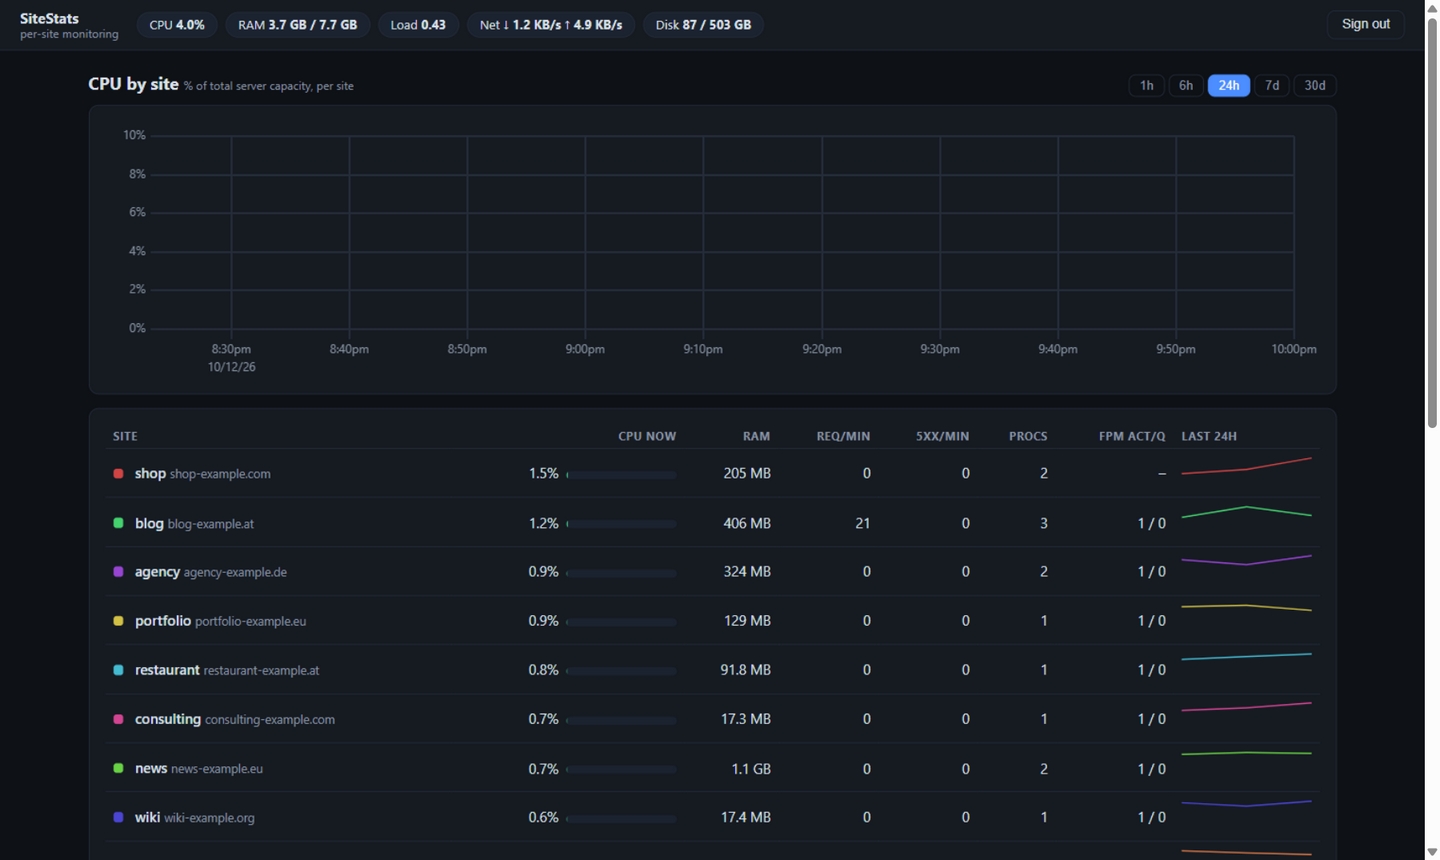
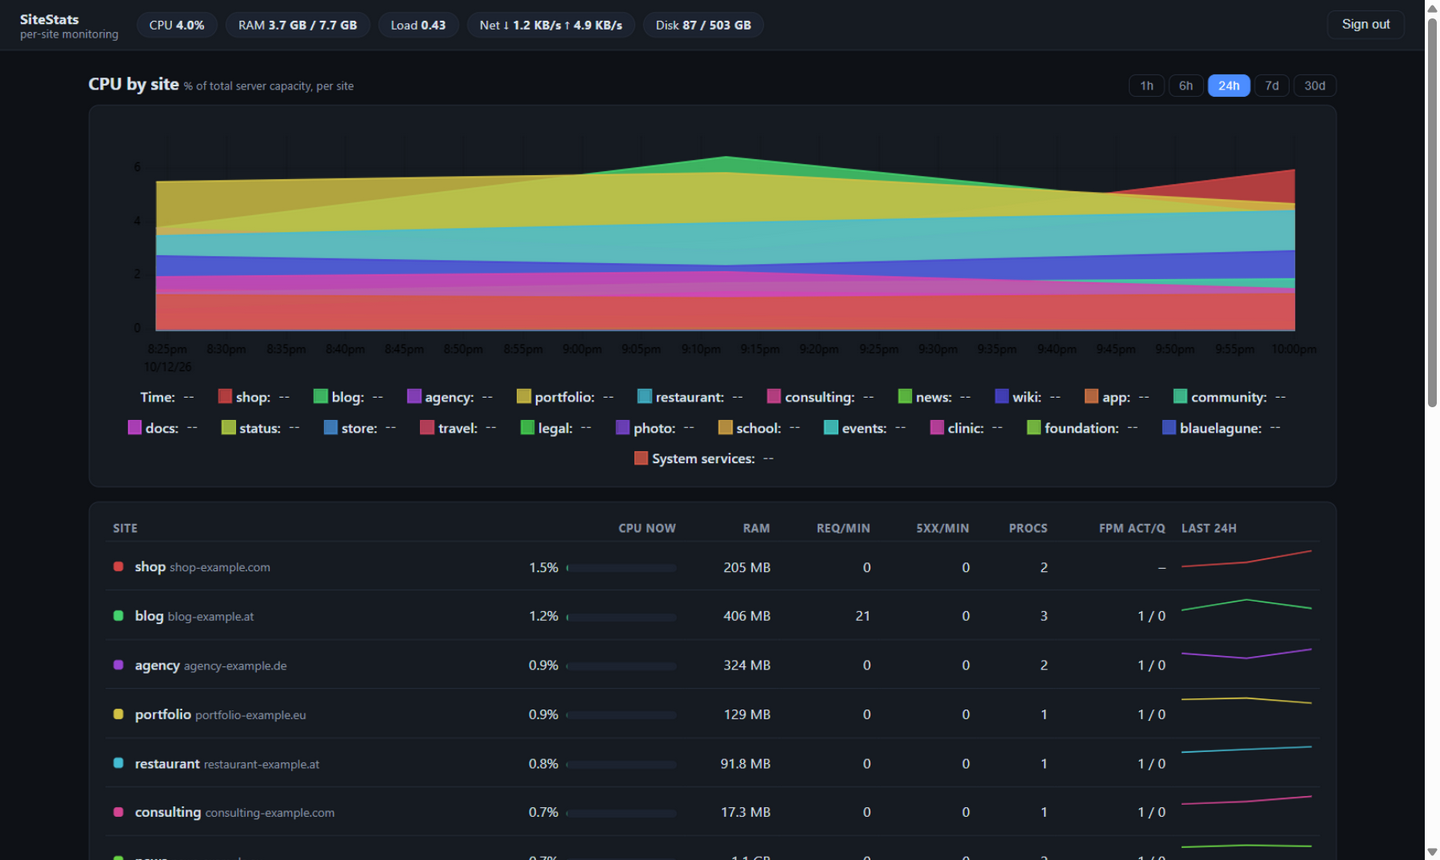
Fix stale stats: send Cache-Control no-store on API responses
Browsers heuristically cached the unauthenticated GET /api responses,
so the dashboard kept rendering an old frozen response instead of
live data. Also: restore lineChart (accidentally removed during the
overview chart rework), drop chart option overrides that broke series
rendering, and add colorFor rgb colors instead of space-syntax hsl.

diff --git a/internal/server/web/app.js b/internal/server/web/app.js
@@ -108,13 +108,7 @@ const chartDefaults = {
   width: 600,
   height: 240,
   ms: true,
-  cursor: { points: { size: 5 } },
   scales: { x: { time: true } },
-  axes: [
-    { stroke: "#8b96a5", grid: { stroke: "#262d3a" }, ticks: { stroke: "#262d3a" }, space: 70 },
-    { stroke: "#8b96a5", grid: { stroke: "#262d3a" }, ticks: { stroke: "#262d3a" }, size: 55 },
-  ],
-  legend: { show: false },
 };
 
 function chartWidth(el) {
@@ -163,18 +157,41 @@ function stackedChart(el, entries) {
   }
   const cols = aligned.cols;
   const opts = {
-    ...chartDefaults,
     width: chartWidth(el),
     height: 260,
-    scales: { x: { time: true }, y: { auto: false, range: () => [0, softMax] } },
-    axes: [
-      chartDefaults.axes[0],
-      { ...chartDefaults.axes[1], values: (u, vals) => vals.map((v) => v.toFixed(0) + "%") },
-    ],
+    ms: true,
+    scales: { x: { time: true } },
+    series,
   };
   const up = new uPlot(opts, [xs, ...cols], el);
   settleSize(up, el, 260);
   attachTooltip(up, entries);
+  return up;
+}
+
+function lineChart(el, defs, height = 190, yFmt = (v) => v) {
+  el.innerHTML = "";
+  const aligned = alignSeries(defs.map((d) => d.series));
+  const xs = aligned.xs.map((t) => t * 1000);
+  const series = [null];
+  for (const d of defs) {
+    series.push({
+      label: d.name,
+      stroke: d.color || "#4c8dff",
+      width: 1.6,
+      points: { show: false },
+      spanGaps: true,
+    });
+  }
+  const opts = {
+    width: chartWidth(el),
+    height,
+    ms: true,
+    scales: { x: { time: true } },
+    series,
+  };
+  const up = new uPlot(opts, [xs, ...aligned.cols], el);
+  settleSize(up, el, height);
   return up;
 }
 

diff --git a/internal/server/web/index.html b/internal/server/web/index.html
@@ -85,9 +85,9 @@
   </section>
 </main>
 
-<footer>website-stats <span id="ver"></span> · times in your local timezone</footer>
+<footer>SiteStats <span id="ver"></span> · times in your local timezone</footer>
 
 <script src="/static/uplot.iife.min.js?v=13"></script>
-<script src="/static/app.js?v=14"></script>
+<script src="/static/app.js?v=17"></script>
 </body>
 </html>

diff --git a/internal/server/server.go b/internal/server/server.go
@@ -67,7 +67,14 @@ func (s *Server) Handler() http.Handler {
 	mux.HandleFunc("GET /api/overview", s.auth(s.handleOverview))
 	mux.HandleFunc("GET /api/site/{user}", s.auth(s.handleSite))
 	mux.HandleFunc("GET /api/events", s.auth(s.handleEvents))
-	return mux
+	// API responses are live data: never let the browser cache them
+	// (heuristic caching of GETs made the dashboard show stale stats).
+	return http.HandlerFunc(func(w http.ResponseWriter, r *http.Request) {
+		if strings.HasPrefix(r.URL.Path, "/api/") {
+			w.Header().Set("Cache-Control", "no-store")
+		}
+		mux.ServeHTTP(w, r)
+	})
 }
 
 // --- helpers ----------------------------------------------------------------
